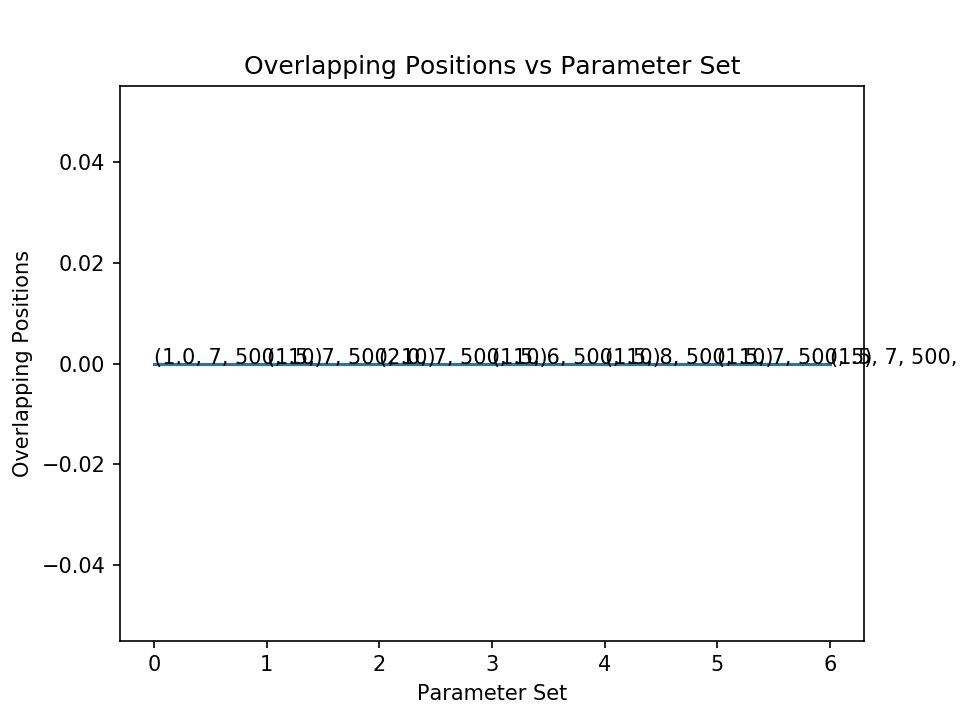
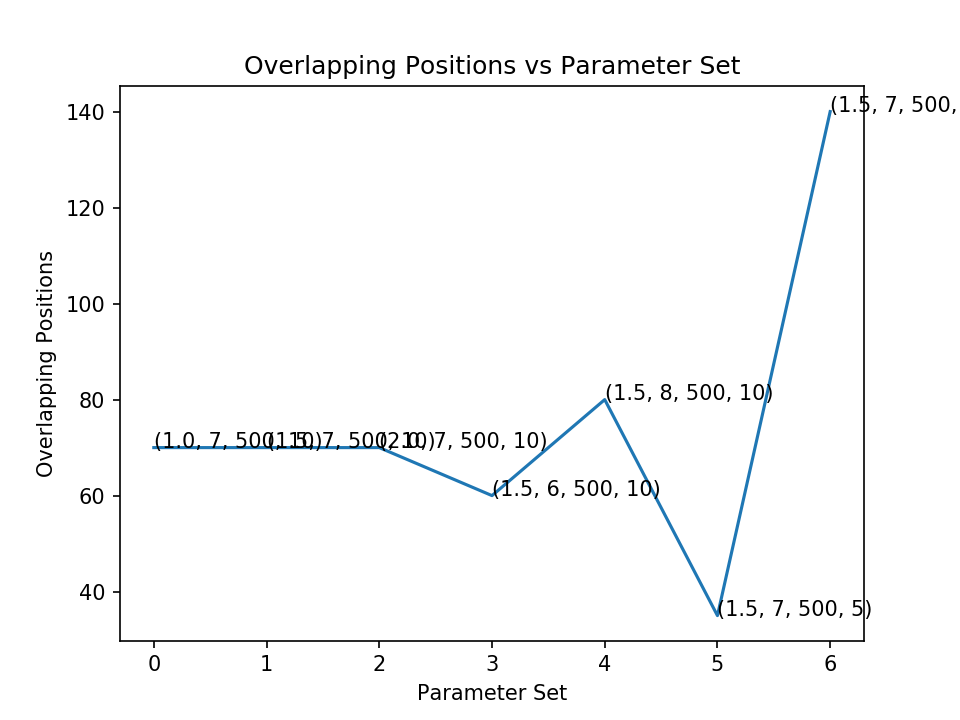
modified evaluate.py

diff --git a/evaluate.py b/evaluate.py
@@ -47,21 +47,50 @@ def KL_divergence(data_i = 0):
 def num_overlap_pos(data_i = 0):
 	"""
 	Number of overlapping positions between “sites.txt” and “predictedsites.txt”
+
 	"""
+	with open('results/dataset' + str(data_i) + '/sites.txt','r') as f:
+		sites = list(map(int,f.readlines()))
+
+	with open('results/dataset' + str(data_i) + '/predictedsites.txt','r') as f:
+		predictedsites = list(map(int,f.readlines()))
+	
+	with open('results/dataset' + str(data_i) + '/motiflength.txt','r') as f:
+		motif_length = int(f.readlines()[0])
+
 	result = 0
+
+	for i in range(len(sites)):
+		gap = np.absolute(sites[i]-predictedsites[i])
+		if gap <= motif_length:
+			result += motif_length - gap
+
 	return result
 
 
 def num_overlap_sites(data_i = 0):
 	"""
 	Number of overlapping sites (two sites overlap if at least ML/2 of their positions are common) between “sites.txt” and “predictedsites.txt
+	
 	”"""
-	sites = import_motif('results/dataset' + str(data_i) + '/sites.txt')
-	predictedsites = import_motif('results/dataset' + str(data_i) + '/predictedsites.txt')
+	
+	with open('results/dataset' + str(data_i) + '/sites.txt','r') as f:
+		sites = list(map(int,f.readlines()))
+
+	with open('results/dataset' + str(data_i) + '/predictedsites.txt','r') as f:
+		predictedsites = list(map(int,f.readlines()))
+	
+	with open('results/dataset' + str(data_i) + '/motiflength.txt','r') as f:
+		motif_length = int(f.readlines()[0])
 
 	result = 0
-	return result
 
+	for i in range(len(sites)):
+		gap = np.absolute(sites[i]-predictedsites[i])
+		if gap <= motif_length//2:
+			result +=1
+
+	return result
 
 """
 Testing
@@ -94,6 +123,13 @@ for i in [6,8]: # count = 2
 for i in [5,20]: # count = 2
 	params_set.append([default_icpc,default_ml,sl,i]) 
 
+# make a file with all the parameters
+with open('results/' + 'params_set.txt','w') as f:
+	f.write("ICPC, ML, SL, SC\n")
+	for i,l in enumerate(params_set):
+		f.write("{0} :".format(l))
+		f.write("Datasets {0}".format([10*i+j for j in range(10)]))
+		f.write("\n")
 
 ## Result arrays. Length = 7
 result_kl_div = [] 
